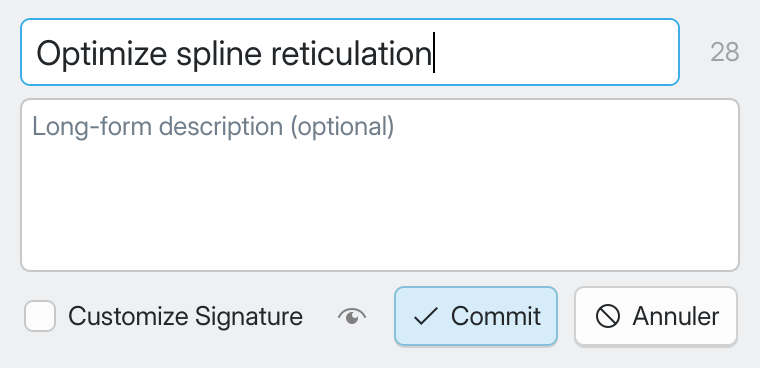
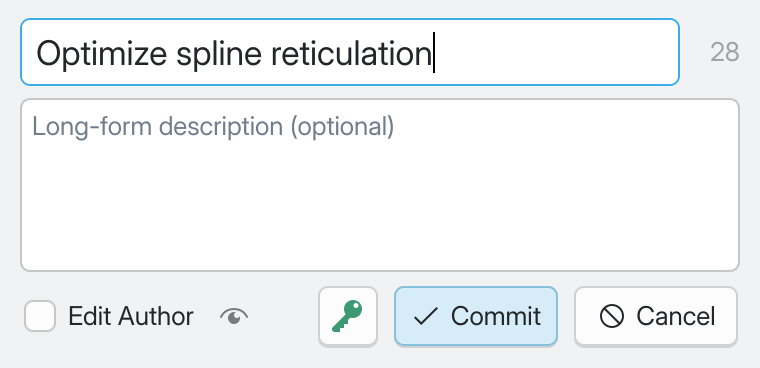
Terminology: Customize Signature -> Edit Author

Changed region(s): [[0.0908, 0.7772, 0.4842, 0.8967], [0.7868, 0.8071, 0.9382, 0.8967], [0.4237, 0.9266, 0.5145, 0.9565]]

diff --git a/guide/advcommit.rst b/guide/advcommit.rst
@@ -61,14 +61,13 @@ You can leave it be, or you can edit it.
 
 By default, the original commit's author information will be left intact, but
 the amended commit will automatically record *you* as the committer.  You can
-customize this via :guilabel:`Customize Signature` and preview the resulting
-signature with the eye button (:gficon:`view-visible`, see
-:ref:`custom-signature`).
+customize this via :guilabel:`Edit Author` and preview the result with the eye
+button (:gficon:`view-visible`, see :ref:`edit-author`).
 
 .. note::
     To be exact, amending doesn't really *modify* the existing commit. Remember,
     commits are *immutable*: each commit is identified by a unique hash of its
-    contents and metadata (message, signature, etc.). So, amending actually
+    contents and metadata (message, author, etc.). So, amending actually
     produces a new commit, then rewrites history to "replace" the HEAD commit.
 
 .. xxxx tip:: Press :kbd:`Ctrl Shift S` to amend the HEAD commit.
@@ -110,24 +109,24 @@ state by clicking :guilabel:`Abort Cherry-Pick` in the *Cherry-Picking* banner.
     Aborting a cherry-pick will discard all **staged** changes---whether they
     originate from the cherry-picked commit or not!
 
-.. _custom-signature:
+.. _edit-author:
 
-Saving a custom signature in a commit
--------------------------------------
+Editing a commit's author or committer
+--------------------------------------
 
-In the :ref:`Commit dialog <commit-dialog>`, notice the :guilabel:`Customize
-Signature` checkbox.  Tick it to edit the author/committer's identity and
+In the :ref:`Commit dialog <commit-dialog>`, notice the :guilabel:`Edit
+Author` checkbox.  Tick it to edit the author/committer's identity and
 timestamp that will be associated with the commit.
 
-.. figure:: /assets/screens/signature.png
+.. figure:: /assets/screens/editauthor.png
 
-    In the Commit dialog, ticking "Customize Signature" reveals the signature editor.
+    In the Commit dialog, ticking "Edit Author" reveals the author editor.
 
-Click the eye button (:gficon:`view-visible`) to preview the signature that will
-be embedded into the commit.
+Click the eye button (:gficon:`view-visible`) to preview the authorship
+information that will be embedded into the commit.
 
 .. note::
-    :guilabel:`Customize Signature` is meant for one-off adjustments.
+    :guilabel:`Edit Author` is meant for one-off adjustments.
     If you need to set up your default identity, you can do so elsewhere:
 
     - **System-wide identity:** Go to :menuselection:`File --> Git Identity`

diff --git a/guide/commit.rst b/guide/commit.rst
@@ -23,7 +23,7 @@ When you've just finished making the commit, it becomes the **HEAD
 commit**---meaning that it's at the tip of the current branch.
 
 Each commit is identified by a unique SHA-1 **hash** of its contents and
-metadata (parents, message, signature). Because of this unique hash, commits are
+metadata (parents, message, author). Because of this unique hash, commits are
 **immutable**: the slightest modification to an existing commit would result in
 a different hash, and thereby a different commit.
 

diff --git a/guide/history.rst b/guide/history.rst
@@ -211,7 +211,7 @@ Commit History context menu
       - Copy this commit's full SHA-1 hash to the clipboard.
 
     * - Get Info
-      - Display the commit's full message, signature, and other details.
+      - Display the commit's full message, authors, and other details.
 
 .. tip:: |lmb2| Double-click on a commit to **check out** that commit.
 
